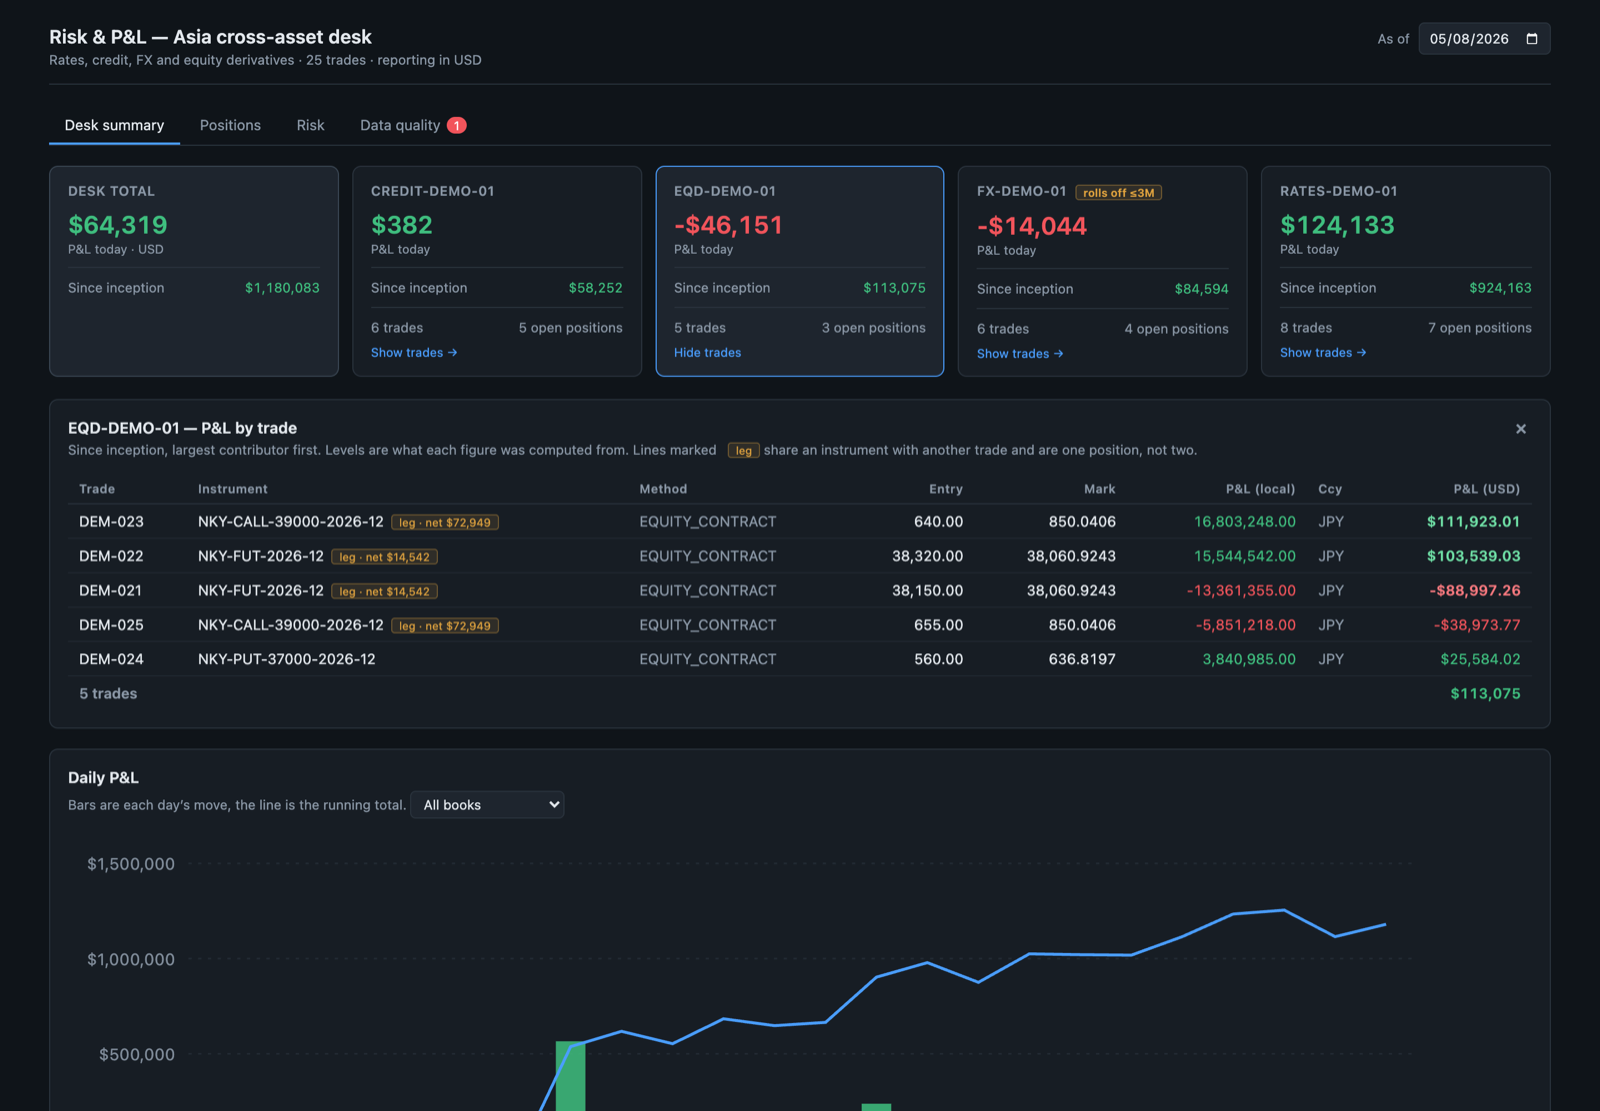
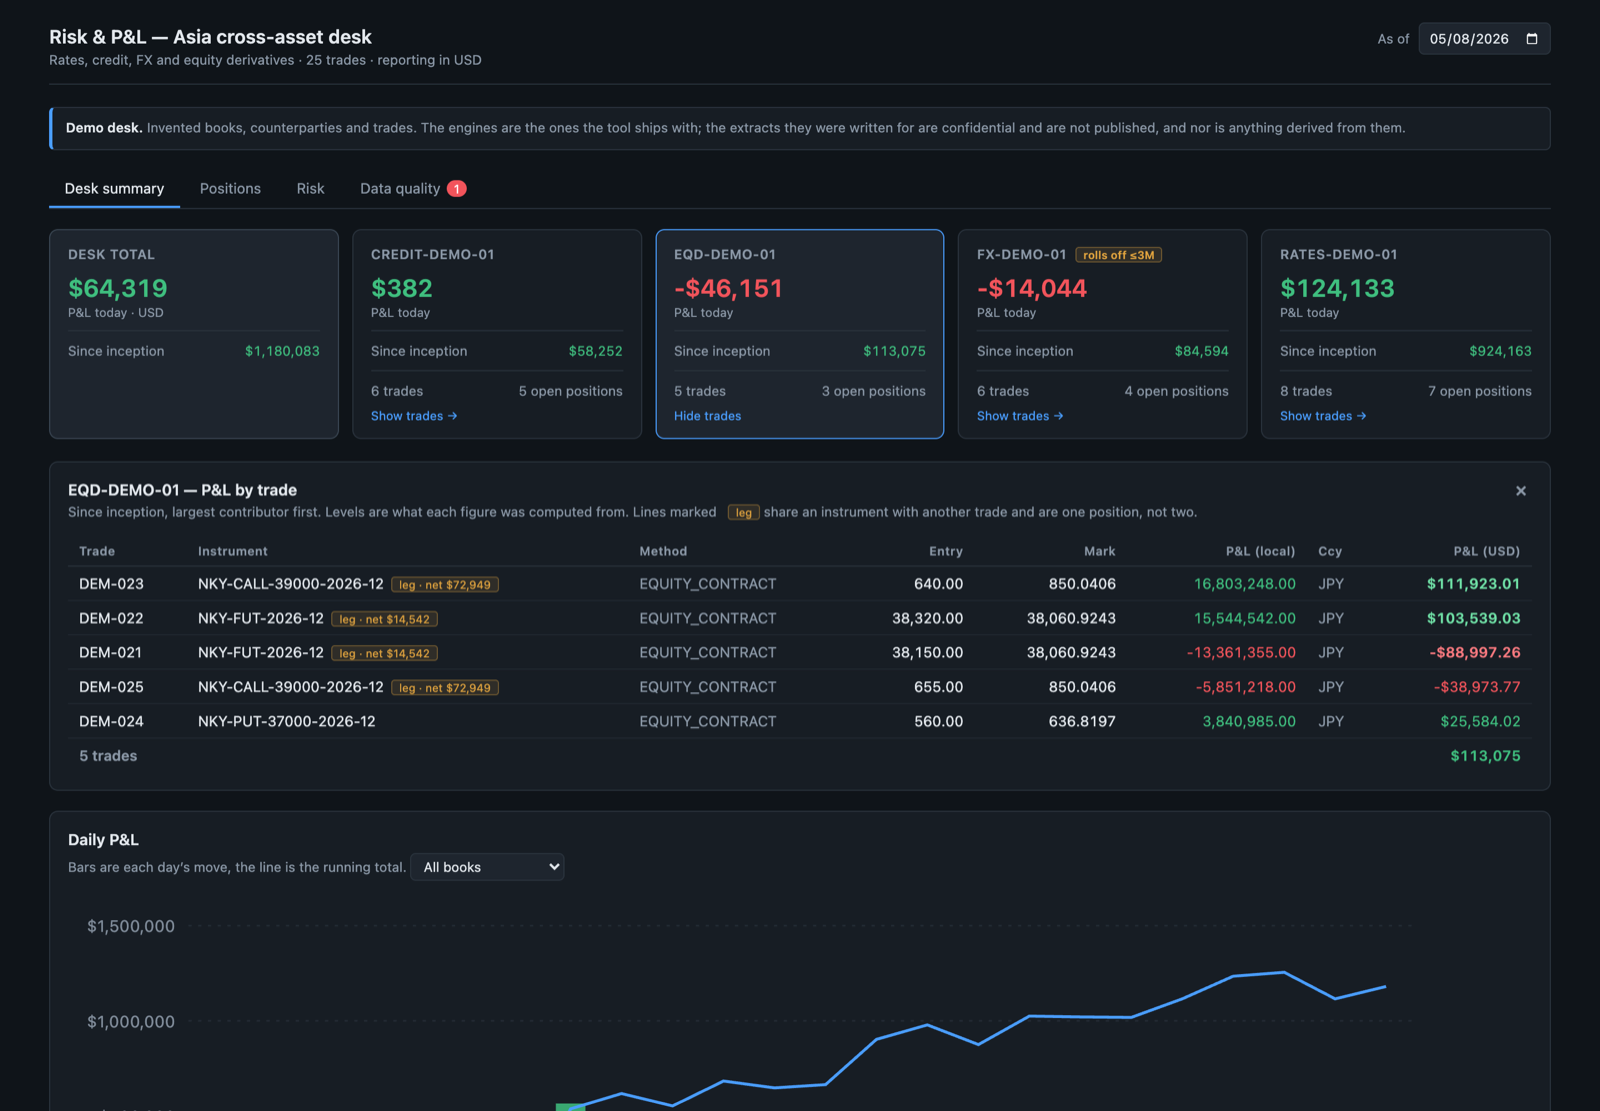
docs: photograph the built site rather than the dev server
Same bundle the deploy uploads, served under the same base path, with nothing
running behind it -- the build carries its own recorded API. The base path
differs only in production, so a picture of `npm run dev` proved the wrong
thing. The demo notice at the top is new and is in all six.

diff --git a/scripts/take_screenshots.py b/scripts/take_screenshots.py
@@ -1,27 +1,30 @@
-"""Capture the screenshots the README shows, from the demo dataset.
+"""Capture the screenshots the README shows, off the published build.
 
-Scripted rather than taken by hand so the images can be regenerated when the
-screens change, and so it is obvious they came from demo-data/ -- the desk in
-them is invented, and nothing derived from the confidential extracts is ever
-committed to this repository.
+It photographs the same bundle the deploy workflow uploads, served the same
+way, rather than a development server: the base path only differs in
+production, so a screenshot of `npm run dev` would prove the wrong thing.
+Nothing has to be running behind it -- the build carries its own recorded API.
 
     python scripts/make_demo_data.py
-    RAD_DATA_DIR=demo-data PYTHONPATH=backend uvicorn app.main:app &
-    cd frontend && npm run dev &
+    python scripts/export_static_api.py
+    cd frontend && BASE_PATH=/risk-pnl-dashboard/ VITE_STATIC_API=1 npm run build
+    cd frontend && npm run preview &
     <scratch-venv>/bin/python scripts/take_screenshots.py
 
-Playwright drives a real Chrome rather than downloading its own: the tab strip
-holds its state in React, so there is no URL to point a plain screenshot tool
-at, and the views have to be clicked through.
+The desk in them is invented, which the header of every one of them says.
+Playwright drives a real Chrome rather than downloading its own; the tab strip
+holds its state in React, so the views have to be clicked through rather than
+pointed at.
 """
 
+import os
 import subprocess
 import sys
 from pathlib import Path
 
 from playwright.sync_api import sync_playwright
 
-APP = "http://localhost:5173"
+APP = os.environ.get("SCREENSHOT_URL", "http://localhost:4173/risk-pnl-dashboard/")
 OUT = Path(__file__).resolve().parents[1] / "docs" / "screenshots"
 CHROME = "/Applications/Google Chrome.app/Contents/MacOS/Google Chrome"
 
@@ -76,4 +79,4 @@ if __name__ == "__main__":
     try:
         main()
     except Exception as failure:  # noqa: BLE001 -- a script, not a library
-        sys.exit(f"screenshots failed: {failure}\nAre both servers running?")
+        sys.exit(f"screenshots failed: {failure}\nIs `npm run preview` serving {APP}?")
